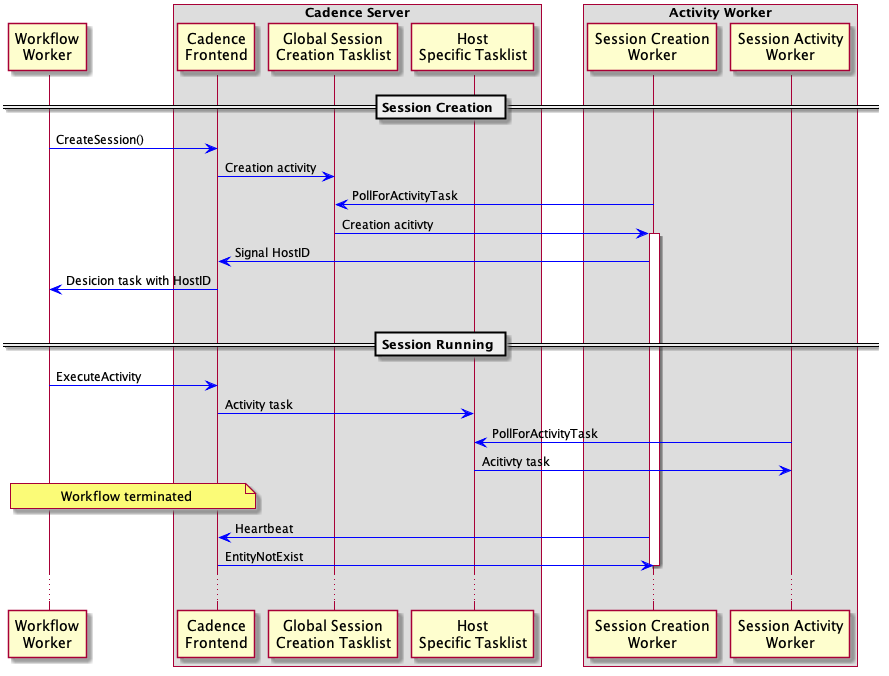
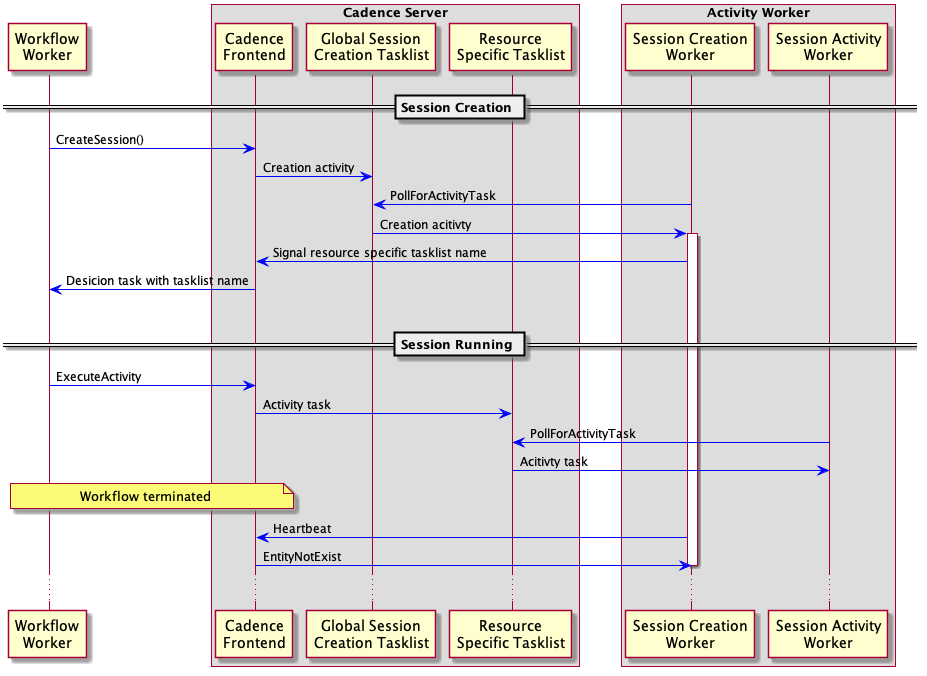
Update session proposal

diff --git a/docs/design/1533-host-specific-tasklist.md b/docs/design/1533-host-specific-tasklist.md
@@ -2,7 +2,7 @@
 
 Author: Yichao Yang (yycptt)
 
-Last updated: April 2019
+Last updated: July 2019
 
 Discussion at <https://github.com/uber-go/cadence-client/issues/697>
 
@@ -41,32 +41,40 @@ The following sections will first go through the APIs exposed to users, explain 
 There will be four new APIs available when writing a workflow:
 
 ```go
-sessionCtx, err := workflow.**CreateSession**(ctx)
+sessionCtx, err := workflow.**CreateSession**(ctx Context, so *SessionOptions)
 ```
 
-A user calls this API to create a session and use the returned sessionCtx to execute activities. All activities executed within the returned sessionCtx are considered to be part of the session and will be executed on the same worker. It’s possible that this call will fail due to various reasons, for example, no worker is available at this time.
+A user calls this API to create a session on the worker that polls the task list specified in the ActivityOptions (or in the StartWorkflowOptions if the task list name is not specified in the ActivityOptions). All activities executed within the returned sessionCtx (a new context which contains metadata information of the created session) are considered to be part of the session and will be executed on the same worker. The sessionCtx will be cancelled if the worker executing this session dies or CompleteSession() is called.
 
-The session will be created on one of the workers that polls from the tasklist specified in the context passed into the CreateSession API. As a result, users need to make sure they are using the correct task list.
+The SessionOptions struct contains two fields: ExecutionTimeout, which specifies the maximum amount of time the session can run and CreationTimeout, which specifies how long session creation can take before returning an error.
 
-When executing an activity within a session, a user may get two types of errors. The first one is returned from user activities. The session will not be marked as failed in this case, so the user can return whatever error they want and apply their business logic as necessary. If a user wants to end a session due to the error returned from the activity, use the CompleteSession() API below. The second type of error is a special error which says the session has failed due to worker failure and the session is marked as failed in the background. In this case, no activities can be executed using this context. The user can choose how to handle the failure. They can create a new session to retry or end the workflow with an error.
+CreateSession() will return an error if the context passed in already contains an open session. If all the workers are currently busy and unable to handle new sessions, the framework will keep retrying until the CreationTimeout you specified in the SessionOptions has passed before returning an error.
+
+When executing an activity within a session, a user may get three types of errors:
+1. Those returned from user activities. The session will not be marked as failed in this case, so the user can return whatever error they want and apply their business logic as necessary. If a user wants to end a session due to the error returned from the activity, use the CompleteSession() API below. 
+2. A special `ErrSessionFailed` error: this error means the session has failed due to worker failure and the session is marked as failed in the background. In this case, no activities can be executed using this context. The user can choose how to handle the failure. They can create a new session to retry or end the workflow with an error.
+3. Cancelled error: If a session activity has been scheduled before worker failure is detected, it will be cancelled afterwards and a cancelled error will be returned.
 
 ```go
-err := workflow.**CompleteSession**(sessionCtx)
+workflow.**CompleteSession**(sessionCtx Context)
 ```
 
-This API is used to complete a session. It will return an error if the context passed in does not contain a session with state "Open" or it fails to complete the session.
+This API is used to complete a session. It releases the resources reserved on the worker and cancel the session context (therefore all the activities using that session context). It does nothing when the session is already closed or failed.
 
 ```go
-sessionInfo, err := workflow.**GetSessionInfo**(sessionCtx)
+sessionInfoPtr := workflow.**GetSessionInfo**(sessionCtx Context)
 ```
 
-This API returns session information stored in the context. It returns an error if the context passed in doesn’t contain any session information or the session has already failed. For now, the only information returned is sessionID, which is a unique identifier for a session.
+This API returns session metadata stored in the context. If the context passed in doesn’t contain any session metadata, this API will return a nil pointer. For now, the only exported fields in sessionInfo are: sessionID, which is a unique identifier for a session, and hostname. 
 
 ```go
-sessionCtx, err := workflow.**RecreateSession**(ctx, sessionInfo)
+sessionCtx, err := workflow.**RecreateSession**(ctx Context, recreateToken []byte, so *SessionOptions)
 ```
 
-This API takes session information and recreates a session. All the activities in the recreated session will be executed by the specified worker. The primary use case will be continueAsNew. Before returning the continueAsNew error, the user should get the sessionInfo from sessionCtx and complete the session. Then in the next run, the session can be recreated and activities in this new run can continue to be executed on the same activity worker as previous runs.
+For long running sessions, user may want to split it into multiple runs while still want all the activities executed by the same worker. This API is designed for such a use case.
+
+Its usage is the same as CreateSession() except that it also takes in a recreateToken. The token encodes the resource specific tasklist name on which the new session should be created.The token can be get by calling the GetRecreateToken() method of the SessionInfo object.
+
 
 #### Example
 
@@ -80,6 +88,8 @@ if err != nil {
     // Creation failed. Wrong ctx or too many outstanding sessions.
 
 }
+
+defer CompleteSession(sessionCtx)
 
 err = ExecuteActivity(sessionCtx, DownloadFileActivity, filename).Get(sessionCtx, nil)
 
@@ -108,14 +118,6 @@ if err != nil {
     // Session(worker) has failed or activity itself returns an error.
 
 }
-
-err = CompleteSession(sessionCtx)
-
-if err != nil {
-
-    // Wrong ctx is used or failed to release session resource.
-
-}
 ```
 
 #### New Worker Options
@@ -130,7 +132,7 @@ There will be three new options available when creating a worker:
 
   An identifier of the resource that will be consumed if a session is executed on the worker. For example, if a worker has a GPU, and a session for training a machine learning model is executed on the worker, then some memory on the GPU will be consumed. In this case, the resourceID can be the identifier of the GPU.
 
-**NOTE:** The user needs to ensure there’s only one worker using a certain resourceID.
+**NOTE:** The user needs to ensure, on one host, there’s only one worker using a certain resourceID.
 
 * **MaxCurrentSessionExecutionSize**
 
@@ -140,61 +142,67 @@ There will be three new options available when creating a worker:
 
 ### Session Model
 
-All sessions are **resource specific**. This means that a session is always tied to some kind of resource (not the worker). The resource can be CPU, GPU, memory, file descriptors, etc., and we want all the activities within a session to be executed by the same worker that owns the resource. If a worker dies and restarts, as long as it owns the same resource, we can try to reestablish the session (this is future work). Also, the user needs to ensure that the resource is owned by only one worker.
+All sessions are **resource specific**. This means that a session is always tied to some kind of resource (not the worker). The resource can be CPU, GPU, memory, file descriptors, etc., and we want all the activities within a session to be executed by the same worker that owns the resource. If a worker dies and restarts, as long as it owns the same resource, we can try to reestablish the session (this is future work). Also, the user needs to ensure that the resource is owned by only one worker on a single host.
 
 Note that when creating a session, a user doesn’t need to specify the resource that is consumed by the session. This is because right now one worker owns only one resource, so there’s only one resource type on the worker. As a result, as long as the user specifies the correct tasklist in the context passed into the createSession API, the correct type of resource will be consumed (since there’s only one). Later, when a worker can support multiple types of resources, users will need to specify the resource type when creating a session.
 
 ### Workflow Context
 
-When a user calls the CreateSession() or CreateSessionWithHostID() API, a structure that contains information about the created session will be stored in the returned context. The structure contains three pieces of information:
+When a user calls the CreateSession() or RecreateSession() API, a structure that contains information about the created session will be stored in the returned context. The structure contains seven pieces of information:
 
 1. **SessionID**: a unique ID for the created session. (Exported)
 
-2. **tasklist**: the resource specific tasklist used by this session. (Not Exported)
+2. **Hostname**: hostname of the worker that is responsible for executing the session. (Exported)
 
-3. **state:** state of the session (Not Exported).  It can take one of the three values below:
+3. **ResourceID**: the resource consumed by the session. (Will Be Exported)
+ 
+4. **tasklist**: the resource specific tasklist used by this session. (Not Exported)
+
+5. **sessionState**: state of the session (Not Exported).  It can take one of the three values below:
 
    1. **Open**: when the session is created and running
    2. **Failed**: when the worker is down and the session can’t continue
    3. **Closed**: when the user closes the session through the API call and the session is successfully closed
 
+6. **sessionCancelFunc**: the function used to cancel the sessionCtx. It will cancel both the creation activity (see below) and all user activities. (Not Exported)
+
+7. **completionCtx**: the context for executing the completion activity. It’s different from the sessionCtx as we want to cancel the session context when CompleteSession() is called, but the completion activity (see below) still needs to be executed. (Not Exported)
+
 When a user calls the CompleteSession() API, the state of the session will be changed to "Closed" in place, which is why this API doesn’t return a new context variable.
 
-A user has no way to set the state of a session to failed. The state of a session is "failed" only when the worker executing the session is down and the change from “open” to “failed” is done in the background. Also notice that it’s possible that the worker is down, but the session state is still “Open” (since it takes some time to detect the worker failure). In this case, when a user executes an activity, the activity will still be scheduled on the resource specific tasklist. However, since no worker will poll from this task list, that activity will timeout and the user will get an error.
-
-Note that if a user tries to call CreateSession() with a context that already has an open session, the call will return an error. The same thing happens if a call to CompleteSession() is made when there’s no open session. You can call it with a failed session, but it won’t do anything. This is allowed because the state transition to "failed" is done in the background, and user may not know the session has failed.
+A user has no way to set the state of a session to “Failed”. The state of a session is “Failed” only when the worker executing the session is down and the change from “Open” to “Failed” is done in the background. Also notice that it’s possible that the worker is down, but the session state is still “Open” (since it takes some time to detect the worker failure). In this case, when a user executes an activity, the activity will still be scheduled on the resource specific tasklist. However, it will be cancelled after worker failure is detected and the user will get a cancelled error.
 
 ### Workflow Worker
 
-When scheduling an activity, the workflow worker needs to check the context to see if this activity belongs to a session. If so and the state of that session is "open", get the session tasklist from the context and use it to override the tasklist value specified in the activity option. If on the other hand, the state is “failed”, the ExecuteActivity call will immediately fail without scheduling the activity and return an error through Future.Get().
+When scheduling an activity, the workflow worker needs to check the context to see if this activity belongs to a session. If so and the state of that session is "Open", get the resource specific tasklist from the context and use it to override the tasklist value specified in the activity option. If on the other hand, the state is "Failed", the ExecuteActivity call will immediately fail without scheduling the activity and return an ErrSessionFailed error through Future.Get().
 
-What CreateSession() and CompleteSession() really do is **scheduling a special activity** and get some information from the worker which executes the activity.
+What CreateSession() and CompleteSession() really do are **scheduling special activities** and get some information from the worker which executes these activities.
 
-* For CreateSession(), a special **session creation activity** will be scheduled on a global tasklist which is only used for this type of activity. During the execution of the activity, a signal containing the tasklist (depending on the session type, the tasklist will be either host specific or process specific) name will be sent back to the workflow. Then the tasklist name can be stored in the context for later use. The activity also performs heart beating throughout the whole lifetime of the session, so if the activity worker is down, the workflow can be notified and set the session state to "Failed". The CreateSession() call is considered as success when it gets the tasklist.
+* For CreateSession(), a special **session creation activity** will be scheduled on a global tasklist which is only used for this type of activity. During the execution of that activity, a signal containing the resource specific tasklist name will be sent back to the workflow (with other information like hostname etc.). Once the signal is received by the worker, the creation is considered successful and the tasklist name will be stored in the session context. The creation activity also performs periodic heartbeat throughout the whole lifetime of the session. As a result, if the activity worker is down, the workflow can be notified and set the session state to “Failed”. 
 
 * For RecreateSession(), the same thing happens. The only difference is that the session creation activity will be **scheduled on the resource specific task list instead of a global one**.
 
-* For CompleteSession(), another special **completion activity** will be scheduled on the process specific tasklist. The sole purpose of this activity is to stop the corresponding creation activity created by the CreateSession()/CreateSessionWithHostID() API call, so that the resource used by the session can be released. Note that, **the completion activity must be scheduled on the resource specific tasklist (not a global one)** since we need to make sure the completion activity and the creation activity it needs to stop are running by the same worker.
+* For CompleteSession(), a special **completion activity** will be scheduled on the resource specific tasklist. The purpose of this activity is to stop the corresponding creation activity created by the CreateSession()/CreateSessionWithHostID() API call, so that the resource used by the session can be released. Note that, **the completion activity must be scheduled on the resource specific tasklist (not a global one)** since we need to make sure the completion activity and the creation activity it needs to stop are running by the same worker.
 
 ### Activity Worker
 
-When EnableSessionWorker is set to true, two more activity workers will be started.
+When `EnableSessionWorker` is set to true, two more activity workers will be started.
 
-* Session Creation Worker: this worker polls from a global tasklist whose name is derived from the tasklist name specified in the workerOption. This worker executes only one kind of activity: the special session creation activity. This special activity serves several purposes:
+* This worker polls from a global tasklist whose name is derived from the tasklist name specified in the workerOption and executes only the special session creation activity. This special activity serves several purposes:
 
    1. **Send the resource specific tasklist name** back to the workflow through signal.
 
    2. Keep **heart beating** to Cadence server until the end of the session.
 
-      If the heart beating returns EntityNotExist Error, this means the workflow/session has gone and this special activity should stop to release its resources.
+      If the heart beating returns `EntityNotExist` Error, this means the workflow/session has gone and this special activity should stop to release its resources.
 
-      If on the other hand, the worker is down, Cadence server will send a heartbeat timeout error to the workflow, so the workflow can be notified and update the session state. Later,  an ExecuteActivity() call to the failed session context will also fail.
+      If on the other hand, the worker is down, Cadence server will send a heartbeat timeout error to the workflow, so the workflow can be notified and update the session state. Later, an ExecuteActivity() call to the failed session context will also fail.
 
    3. Check the number of currently running sessions on the worker. If the maximum number of concurrent sessions has been reached, return an error to fail the creation.
 
    One detail we need to ensure is that when the maximum number of concurrent sessions has been reached, this worker should stop polling from the global task list.
 
-* Session Activity Worker: this worker only polls from the resource specific tasklist. There are three kinds of activities that can be run by this worker.
+* Session Activity Worker: this worker only polls from the resource specific tasklist. There are three kinds of activities that can be run by this worker:
 
    1. User activities in a session that belongs to this host.
 
@@ -222,19 +230,17 @@ This section illustrates the sequence diagrams for situations that may occur dur
 
 ![image alt text](1533-host-specific-tasklist-image_2.png)
 
-* When there are too many outstanding sessions and the user is trying to create a new one. The assumption here is that each activity worker is configured to have **MaxCurrentSessionExecutionSize = 1**. Host specific tasklist and worker is omitted in the diagram.
+* When there are too many outstanding sessions and the user is trying to create a new one. The assumption here is that each activity worker is configured to have **MaxCurrentSessionExecutionSize = 1**. Resource specific tasklist and session activity worker is omitted in the diagram.
 
 ![image alt text](1533-host-specific-tasklist-image_3.png)
 
-* An example of CreateSessionWithHostID().
+* An example of RecreateSession().
 
 ![image alt text](1533-host-specific-tasklist-image_4.png)
 
 ## Open Issues
 
 * Support automatic session reestablishing when worker goes down.
-
-* Add built-in query which will return a list of open sessions.
 
 * Allow session activities to access session information such as sessionID, resourceID, etc. This information is useful for logging and debugging.
 
